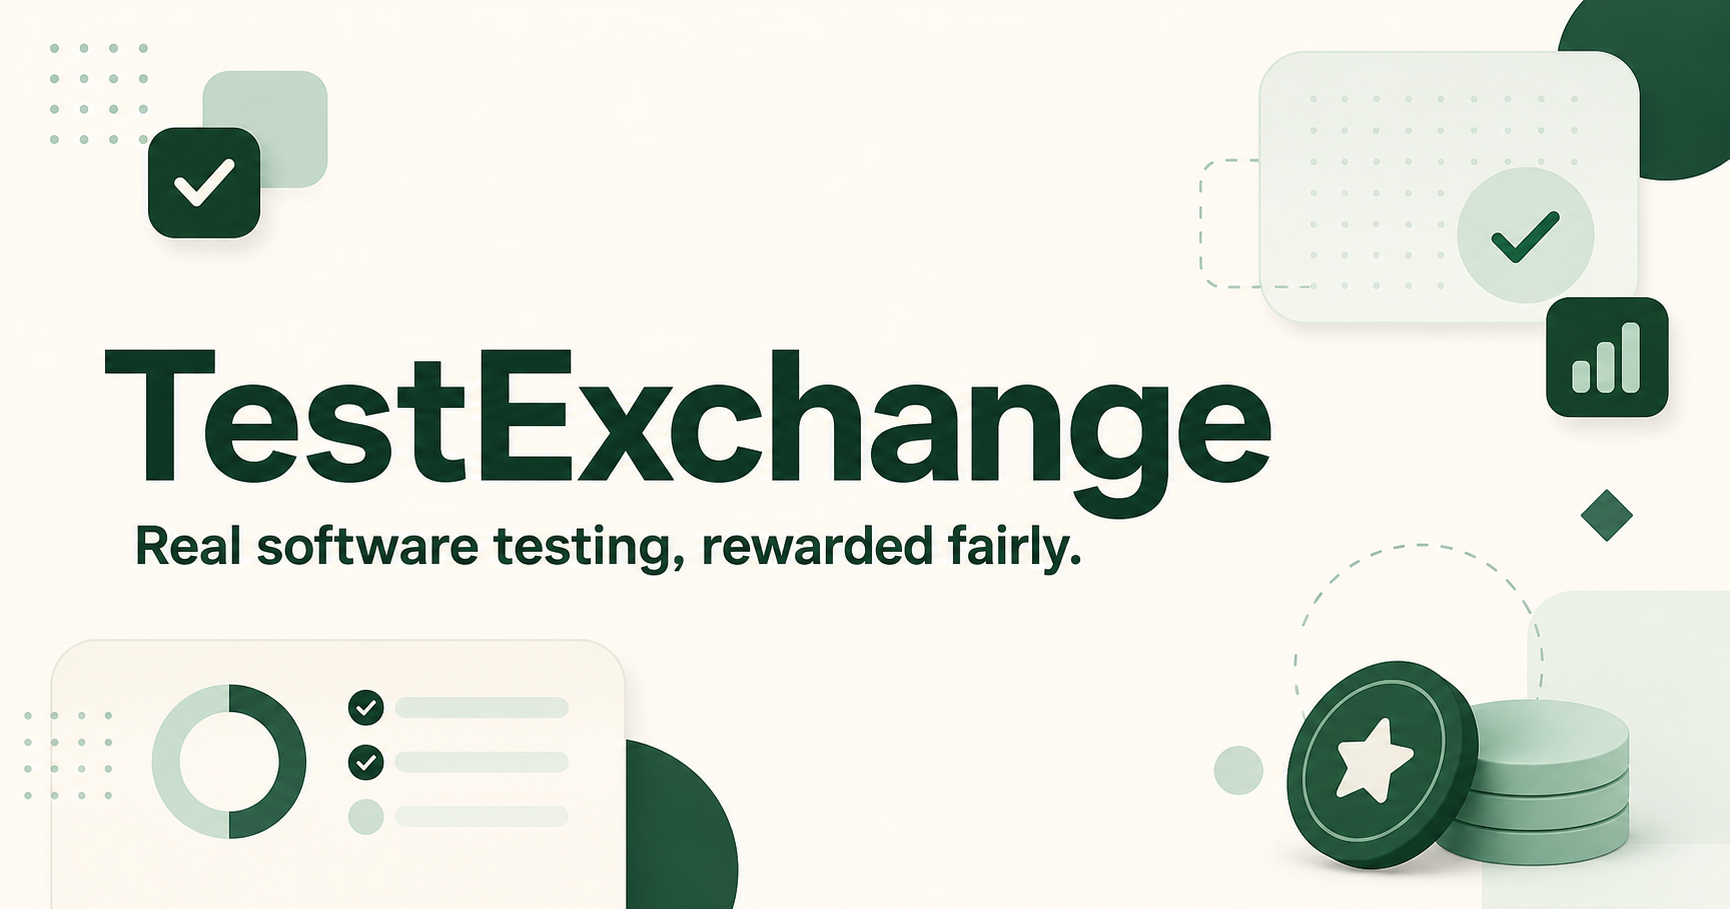
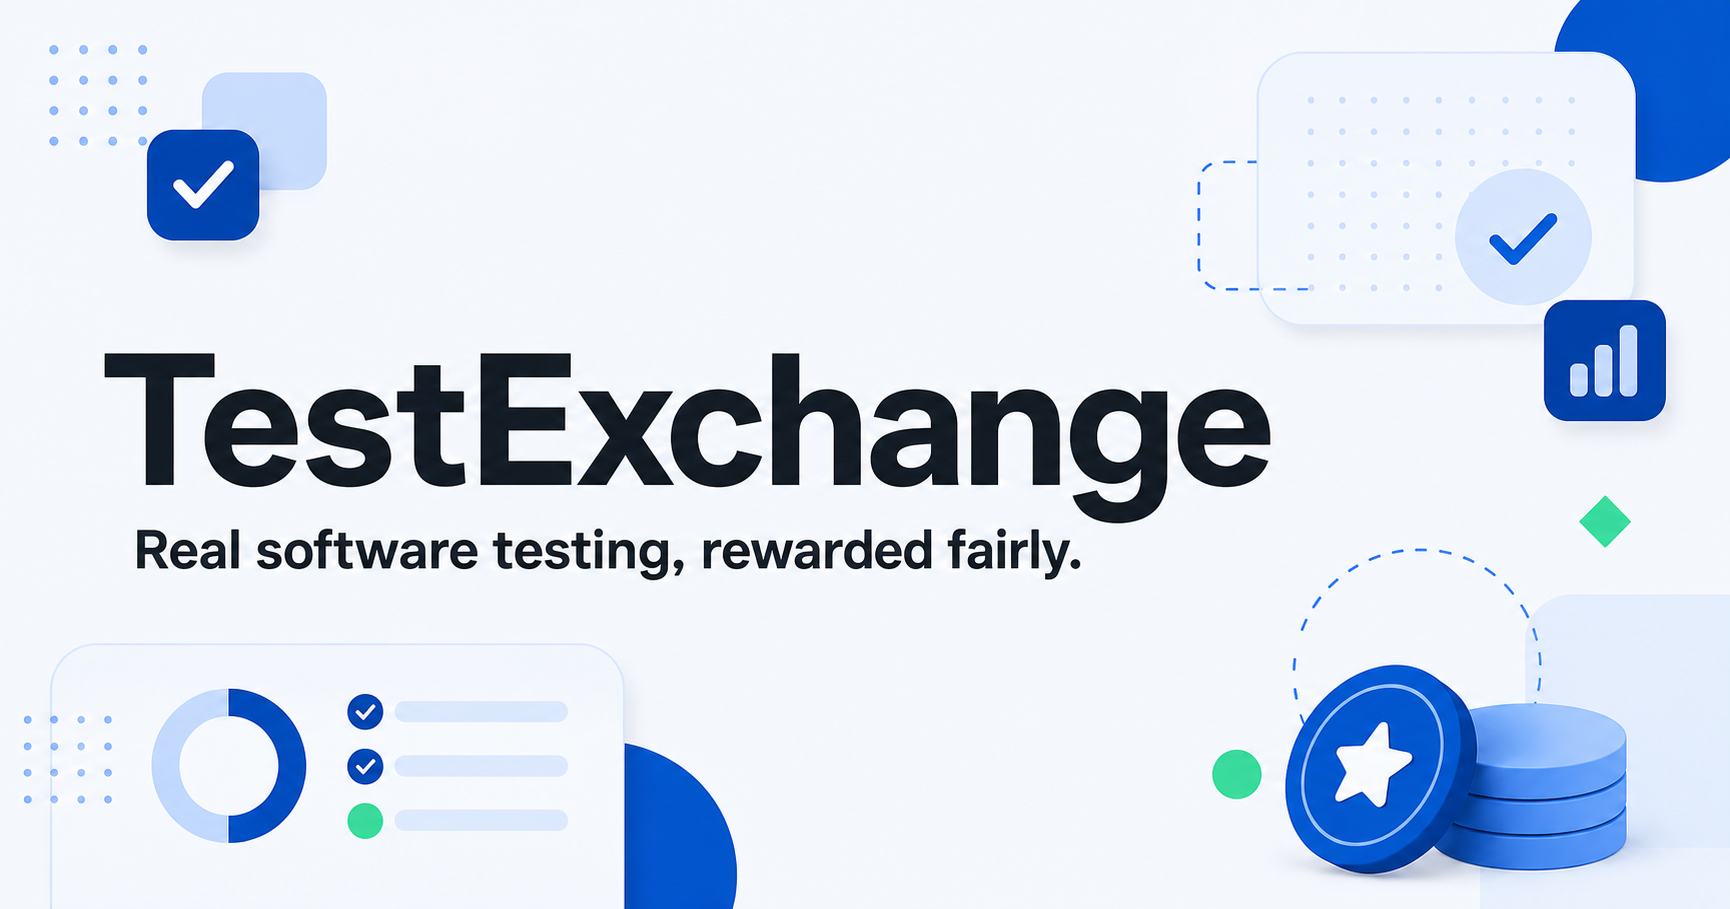
style: apply blue Android-inspired theme

diff --git a/src/styles.css b/src/styles.css
@@ -2,26 +2,32 @@
 
 :root {
   font-family: 'DM Sans', system-ui, -apple-system, BlinkMacSystemFont, 'Segoe UI', sans-serif;
-  color: #20241f;
-  background: #f6f7f5;
+  color: #202124;
+  background: #f7f9fc;
   font-synthesis: none;
   text-rendering: optimizeLegibility;
-  --ink: #20241f;
-  --muted: #71776f;
-  --soft-muted: #939990;
-  --line: #e3e6df;
+  --ink: #202124;
+  --muted: #646b75;
+  --soft-muted: #8b929c;
+  --line: #dfe4ec;
   --paper: #ffffff;
-  --canvas: #f6f7f5;
-  --green: #356d53;
-  --green-soft: #e3f1e8;
-  --green-dark: #234936;
+  --canvas: #f7f9fc;
+  --primary: #0b57d0;
+  --primary-dark: #0842a0;
+  --primary-soft: #e8f0fe;
+  --android-green: #3ddc84;
+  --android-green-dark: #087f45;
+  --android-green-soft: #ddf8e8;
+  --green: var(--primary);
+  --green-soft: var(--primary-soft);
+  --green-dark: var(--primary-dark);
   --purple: #7660a4;
   --purple-soft: #eee9f7;
   --orange: #b86c3f;
   --orange-soft: #f8e9df;
-  --blue: #527a9a;
-  --blue-soft: #e5eff6;
-  --shadow: 0 8px 28px rgba(35, 45, 37, 0.06);
+  --blue: #0b57d0;
+  --blue-soft: #e8f0fe;
+  --shadow: 0 8px 28px rgba(11, 87, 208, 0.07);
 }
 
 * {
@@ -120,7 +126,7 @@ h3,
   flex: 0 0 auto;
   place-items: center;
   border-radius: 9px;
-  background: var(--green-dark);
+  background: linear-gradient(145deg, var(--primary), var(--primary-dark));
   color: white;
   font-family: 'Manrope', sans-serif;
   font-size: 16px;
@@ -133,9 +139,9 @@ h3,
   flex-direction: column;
   margin: 27px 5px 23px;
   padding: 16px;
-  border: 1px solid #dfe6df;
+  border: 1px solid #d5e2f7;
   border-radius: 13px;
-  background: linear-gradient(145deg, #eef6ef, #f8faf7);
+  background: linear-gradient(145deg, #edf4ff, #f9fbff);
 }
 
 .eyebrow,
@@ -204,7 +210,7 @@ h3,
 
 .nav-link.active {
   color: var(--green-dark);
-  background: #e7f0e9;
+  background: var(--primary-soft);
   font-weight: 700;
 }
 
@@ -380,11 +386,11 @@ h3,
   border-color: var(--green-dark);
   color: white;
   background: var(--green-dark);
-  box-shadow: 0 5px 12px rgba(35, 73, 54, 0.12);
+  box-shadow: 0 5px 14px rgba(11, 87, 208, 0.2);
 }
 
 .button-dark:hover {
-  background: #193b2a;
+  background: #073b8f;
 }
 
 .button-light {
@@ -734,10 +740,10 @@ h3,
   font-size: 15px;
 }
 
-.app-icon.mint { color: #38644e; background: #dcefe3; }
+.app-icon.mint { color: var(--android-green-dark); background: var(--android-green-soft); }
 .app-icon.lavender { color: #665188; background: #e9e3f4; }
 .app-icon.peach { color: #945b3e; background: #f8e4d8; }
-.app-icon.sky { color: #4b6e88; background: #dfeef5; }
+.app-icon.sky { color: var(--primary-dark); background: var(--primary-soft); }
 
 .quick-test > div {
   display: flex;
@@ -3692,14 +3698,14 @@ h3,
 }
 
 /* Public community */
-.public-shell { min-height: 100vh; background: #f7f8f5; }
+.public-shell { min-height: 100vh; background: var(--canvas); }
 .public-container { width: min(1180px, calc(100% - 40px)); margin-inline: auto; }
-.public-header { position: sticky; top: 0; z-index: 30; border-bottom: 1px solid #dfe4dc; background: rgba(251, 252, 249, .96); backdrop-filter: blur(14px); }
+.public-header { position: sticky; top: 0; z-index: 30; border-bottom: 1px solid #dce3ed; background: rgba(250, 252, 255, .96); backdrop-filter: blur(14px); }
 .public-header-inner { display: flex; width: min(1240px, calc(100% - 32px)); height: 68px; align-items: center; gap: 28px; margin-inline: auto; }
 .public-brand { flex: 0 0 auto; }
 .public-nav { display: flex; align-items: center; gap: 5px; }
 .public-nav a { padding: 9px 11px; border-radius: 8px; color: #626a61; font-size: 13px; font-weight: 600; }
-.public-nav a:hover, .public-nav a.active { color: var(--green-dark); background: #edf3ed; }
+.public-nav a:hover, .public-nav a.active { color: var(--primary-dark); background: var(--primary-soft); }
 .public-search { display: flex; min-width: 190px; max-width: 335px; height: 39px; flex: 1; align-items: center; gap: 8px; margin-left: auto; padding: 0 12px; border: 1px solid #dce1d9; border-radius: 9px; background: white; }
 .public-search svg { color: #8a9189; }
 .public-search input { width: 100%; border: 0; outline: 0; color: var(--ink); background: transparent; font-size: 12px; }
@@ -3708,24 +3714,24 @@ h3,
 .public-menu-button { display: none; }
 .public-main { min-height: calc(100vh - 230px); }
 
-.community-hero { overflow: hidden; border-bottom: 1px solid #dfe4dc; background: radial-gradient(circle at 78% 15%, rgba(167, 203, 177, .35), transparent 25%), linear-gradient(135deg, #f9faf7 5%, #edf4ed 100%); }
+.community-hero { overflow: hidden; border-bottom: 1px solid #dce3ed; background: radial-gradient(circle at 82% 8%, rgba(61, 220, 132, .2), transparent 26%), radial-gradient(circle at 70% 35%, rgba(11, 87, 208, .15), transparent 34%), linear-gradient(135deg, #fbfcff 5%, #edf3ff 100%); }
 .community-hero-inner { display: grid; grid-template-columns: minmax(0, 1.25fr) minmax(330px, .75fr); align-items: center; gap: 84px; min-height: 455px; padding-block: 70px; }
 .community-kicker { color: var(--green); font-size: 10px; font-weight: 800; letter-spacing: 1.5px; }
-.community-hero-copy h1 { max-width: 720px; margin-top: 16px; color: #17251c; font-size: clamp(42px, 5vw, 67px); line-height: 1.03; letter-spacing: -3.4px; }
+.community-hero-copy h1 { max-width: 720px; margin-top: 16px; color: #17243a; font-size: clamp(42px, 5vw, 67px); line-height: 1.03; letter-spacing: -3.4px; }
 .community-hero-copy > p { max-width: 650px; margin-top: 22px; color: #5e685f; font-size: 17px; line-height: 1.7; }
 .community-hero-actions { display: flex; align-items: center; gap: 22px; margin-top: 30px; }
 .community-text-link { color: var(--green-dark); font-size: 13px; font-weight: 700; border-bottom: 1px solid #aebdaf; }
 
-.community-principle-card { padding: 28px; border: 1px solid #d4dfd5; border-radius: 17px; background: rgba(255, 255, 255, .86); box-shadow: 0 24px 65px rgba(37, 66, 47, .1); }
-.community-card-icon { display: inline-grid; width: 40px; height: 40px; margin-bottom: 19px; place-items: center; border-radius: 11px; color: var(--green); background: var(--green-soft); }
+.community-principle-card { padding: 28px; border: 1px solid #d4dfef; border-radius: 17px; background: rgba(255, 255, 255, .9); box-shadow: 0 24px 65px rgba(11, 63, 145, .12); }
+.community-card-icon { display: inline-grid; width: 40px; height: 40px; margin-bottom: 19px; place-items: center; border-radius: 11px; color: var(--android-green-dark); background: var(--android-green-soft); }
 .community-principle-card h2 { margin-top: 8px; font-size: 22px; letter-spacing: -.5px; }
 .community-principle-card ol { display: flex; flex-direction: column; gap: 16px; margin: 23px 0 0; padding: 0; list-style: none; }
 .community-principle-card li { display: grid; grid-template-columns: 30px 1fr; align-items: start; gap: 11px; }
-.community-principle-card li > span { display: inline-grid; width: 27px; height: 27px; place-items: center; border: 1px solid #cbd8cd; border-radius: 50%; color: var(--green-dark); font-size: 10px; font-weight: 800; }
+.community-principle-card li > span { display: inline-grid; width: 27px; height: 27px; place-items: center; border: 1px solid #bad0f2; border-radius: 50%; color: var(--primary-dark); font-size: 10px; font-weight: 800; }
 .community-principle-card li p { color: #6c746c; font-size: 11px; line-height: 1.5; }
 .community-principle-card li strong { display: block; margin-bottom: 2px; color: var(--ink); font-size: 12px; }
 
-.community-stats { border-bottom: 1px solid #e1e5df; background: white; }
+.community-stats { border-bottom: 1px solid #dfe4ec; background: white; }
 .community-stats .public-container { display: grid; grid-template-columns: repeat(4, 1fr); }
 .community-stats .public-container > div { display: flex; min-height: 90px; align-items: center; justify-content: center; flex-direction: column; border-left: 1px solid #e7eae5; }
 .community-stats .public-container > div:first-child { border-left: 0; }
@@ -3744,7 +3750,7 @@ h3,
 .community-vitals { display: flex; align-items: center; flex-direction: column; padding-top: 4px; color: #768078; }
 .community-vitals strong { color: var(--green-dark); font-family: 'Manrope', sans-serif; font-size: 21px; line-height: 1; }
 .community-vitals span { margin-top: 3px; font-size: 8px; font-weight: 700; text-transform: uppercase; }
-.community-vitals small { margin-top: 10px; padding: 4px 7px; border-radius: 99px; color: var(--green); background: var(--green-soft); font-size: 8px; white-space: nowrap; }
+.community-vitals small { margin-top: 10px; padding: 4px 7px; border-radius: 99px; color: var(--android-green-dark); background: var(--android-green-soft); font-size: 8px; white-space: nowrap; }
 .community-test-heading { display: grid; grid-template-columns: auto minmax(0, 1fr) auto; align-items: start; gap: 10px; }
 .community-test-heading .app-icon { width: 37px; height: 37px; font-size: 9px; }
 .community-test-heading h2 { padding-top: 1px; font-size: 14px; line-height: 1.35; letter-spacing: -.15px; }
@@ -3755,8 +3761,8 @@ h3,
 .community-status.completed { color: #70776f; background: #f2f3f1; }
 .community-summary { margin-top: 13px; color: #5d655d; font-size: 11px; line-height: 1.55; }
 .community-tags { display: flex; flex-wrap: wrap; gap: 6px; margin-top: 12px; }
-.community-tags a { padding: 4px 7px; border-radius: 5px; color: #526b58; background: #edf3ed; font-size: 8px; font-weight: 700; }
-.community-tags a:hover { background: #deebdf; }
+.community-tags a { padding: 4px 7px; border-radius: 5px; color: var(--primary-dark); background: var(--primary-soft); font-size: 8px; font-weight: 700; }
+.community-tags a:hover { background: #d9e6fd; }
 .community-meta { display: flex; flex-wrap: wrap; align-items: center; gap: 13px; margin-top: 13px; color: #858c84; font-size: 8.5px; }
 .community-meta span { display: inline-flex; align-items: center; gap: 5px; }
 .community-meta .community-posted { margin-left: auto; }
@@ -3767,7 +3773,7 @@ h3,
 .community-side-card { padding: 20px; border: 1px solid #dfe3dc; border-radius: 12px; background: white; }
 .community-side-card h3 { font-size: 13px; }
 .community-side-card p { margin-top: 7px; color: #727a72; font-size: 10px; line-height: 1.55; }
-.privacy-card { display: flex; gap: 12px; color: var(--green); border-color: #cfdfd2; background: #f1f7f2; }
+.privacy-card { display: flex; gap: 12px; color: var(--primary); border-color: #ccdaf1; background: #f0f5ff; }
 .privacy-card svg { flex: 0 0 auto; }
 .privacy-card p { color: #617064; }
 .side-card-heading { display: flex; align-items: center; justify-content: space-between; }
@@ -3783,7 +3789,7 @@ h3,
 .community-note-card p { margin: 0; }
 .community-note-card strong { color: #4f5949; }
 
-.public-footer { border-top: 1px solid #dde2da; background: #eef2ec; }
+.public-footer { border-top: 1px solid #dce3ed; background: #edf3fc; }
 .public-footer-inner { display: grid; grid-template-columns: 1fr auto; align-items: center; gap: 28px; min-height: 160px; padding-block: 28px; }
 .public-footer .brand { font-size: 14px; }
 .public-footer .brand-mark { width: 27px; height: 27px; font-size: 12px; }
@@ -3833,9 +3839,9 @@ h3,
   .public-footer small { grid-column: 1; }
 }
 
-.directory-hero, .simple-public-hero { border-bottom: 1px solid #dfe4dc; background: linear-gradient(135deg, #f9faf7, #edf3ed); }
+.directory-hero, .simple-public-hero { border-bottom: 1px solid #dce3ed; background: radial-gradient(circle at 85% 10%, rgba(61, 220, 132, .14), transparent 25%), linear-gradient(135deg, #fbfcff, #edf3ff); }
 .directory-hero .public-container, .simple-public-hero .public-container { padding-block: 52px; }
-.directory-hero h1, .simple-public-hero h1 { max-width: 760px; margin-top: 11px; color: #19271e; font-size: 36px; letter-spacing: -1.3px; }
+.directory-hero h1, .simple-public-hero h1 { max-width: 760px; margin-top: 11px; color: #17243a; font-size: 36px; letter-spacing: -1.3px; }
 .directory-hero p, .simple-public-hero p { max-width: 720px; margin-top: 12px; color: #667067; font-size: 13px; line-height: 1.65; }
 .directory-search { display: flex; max-width: 690px; height: 48px; align-items: center; gap: 10px; margin-top: 25px; padding: 0 14px; border: 1px solid #ced8cf; border-radius: 10px; background: white; box-shadow: 0 9px 24px rgba(38, 61, 45, .06); }
 .directory-search > svg { color: var(--green); }
@@ -3861,7 +3867,7 @@ h3,
 
 .test-detail-breadcrumb { display: flex; align-items: center; gap: 8px; padding-block: 22px; color: #929990; font-size: 9px; }
 .test-detail-breadcrumb a { display: inline-flex; align-items: center; gap: 5px; color: var(--green); font-weight: 700; }
-.test-detail-header { border-block: 1px solid #dfe4dc; background: linear-gradient(135deg, #f8faf7, #eef4ee); }
+.test-detail-header { border-block: 1px solid #dce3ed; background: radial-gradient(circle at 85% 0%, rgba(61, 220, 132, .13), transparent 24%), linear-gradient(135deg, #fafcff, #edf3ff); }
 .test-detail-header-inner { display: grid; grid-template-columns: minmax(0, 1fr) 235px; align-items: end; gap: 70px; padding-block: 46px; }
 .test-detail-project { display: flex; align-items: center; gap: 11px; margin-bottom: 19px; }
 .test-detail-project .app-icon { width: 45px; height: 45px; font-size: 11px; }
@@ -3882,7 +3888,7 @@ h3,
 .detail-section h2 { margin-top: 8px; font-size: 21px; letter-spacing: -.45px; }
 .detail-section > p { margin-top: 12px; color: #626b62; font-size: 12px; line-height: 1.7; }
 .detail-section h3 { margin-top: 26px; font-size: 12px; }
-.public-scope-note { display: flex; align-items: flex-start; gap: 11px; margin-top: 22px; padding: 15px; border: 1px solid #d5e2d7; border-radius: 9px; color: var(--green); background: #f2f7f3; }
+.public-scope-note { display: flex; align-items: flex-start; gap: 11px; margin-top: 22px; padding: 15px; border: 1px solid #ccdaf1; border-radius: 9px; color: var(--primary); background: #f0f5ff; }
 .public-scope-note strong { font-size: 10px; }
 .public-scope-note p { margin-top: 3px; color: #6d776e; font-size: 9px; line-height: 1.5; }
 .detail-facts { display: grid; grid-template-columns: repeat(3, 1fr); gap: 12px; margin-top: 20px; }
@@ -3895,7 +3901,7 @@ h3,
 .requirement-list { display: flex; flex-direction: column; gap: 9px; margin: 13px 0 0; padding: 0; list-style: none; }
 .requirement-list li { display: flex; align-items: center; gap: 8px; color: #5e675f; font-size: 10px; }
 .requirement-list svg { color: var(--green); }
-.detail-privacy-section { display: flex; align-items: flex-start; gap: 15px; background: #f5f8f4; }
+.detail-privacy-section { display: flex; align-items: flex-start; gap: 15px; background: #f4f7fc; }
 .detail-privacy-section > svg { color: var(--green); }
 .detail-privacy-section h2 { margin-top: 5px; }
 .detail-privacy-section p { margin-top: 8px; color: #657066; font-size: 10px; line-height: 1.6; }
@@ -3903,7 +3909,7 @@ h3,
 .join-test-card, .developer-summary-card { padding: 21px; border: 1px solid #dfe3dc; border-radius: 12px; background: white; }
 .join-test-card h2 { margin-top: 16px; font-size: 17px; }
 .join-test-card > p { margin-top: 8px; color: #747c74; font-size: 9.5px; line-height: 1.55; }
-.join-reward-line { display: flex; align-items: center; gap: 9px; margin-block: 18px; padding: 12px; border-radius: 8px; color: var(--green); background: var(--green-soft); }
+.join-reward-line { display: flex; align-items: center; gap: 9px; margin-block: 18px; padding: 12px; border-radius: 8px; color: var(--android-green-dark); background: var(--android-green-soft); }
 .join-reward-line span { display: flex; flex-direction: column; gap: 2px; }
 .join-reward-line strong { font-size: 10px; }
 .join-reward-line small { color: #6e7b70; font-size: 8px; }
@@ -3921,7 +3927,7 @@ h3,
 .tags-directory { display: grid; grid-template-columns: repeat(3, 1fr); gap: 14px; padding-block: 42px 75px; }
 .tag-directory-card { display: grid; grid-template-columns: auto minmax(0, 1fr) auto; align-items: center; gap: 13px; min-height: 120px; padding: 18px; border: 1px solid #dfe3dc; border-radius: 11px; background: white; }
 .tag-directory-card:hover { border-color: #b8c9ba; box-shadow: var(--shadow); }
-.tag-directory-icon { display: inline-grid; width: 37px; height: 37px; place-items: center; border-radius: 9px; color: var(--green); background: var(--green-soft); }
+.tag-directory-icon { display: inline-grid; width: 37px; height: 37px; place-items: center; border-radius: 9px; color: var(--primary); background: var(--primary-soft); }
 .tag-directory-card h2 { font-size: 13px; }
 .tag-directory-card p { overflow: hidden; margin-top: 5px; color: #858c84; font-size: 8px; text-overflow: ellipsis; white-space: nowrap; }
 .tag-directory-card small { display: block; margin-top: 9px; color: var(--green); font-size: 8px; font-weight: 700; }
@@ -3930,12 +3936,12 @@ h3,
 .how-steps { display: grid; grid-template-columns: repeat(4, 1fr); overflow: hidden; border: 1px solid #dfe3dc; border-radius: 13px; background: white; }
 .how-steps article { min-height: 255px; padding: 25px; border-left: 1px solid #e5e8e3; }
 .how-steps article:first-child { border-left: 0; }
-.how-steps article > span { display: inline-grid; width: 41px; height: 41px; place-items: center; border-radius: 10px; color: var(--green); background: var(--green-soft); }
+.how-steps article > span { display: inline-grid; width: 41px; height: 41px; place-items: center; border-radius: 10px; color: var(--primary); background: var(--primary-soft); }
 .how-steps article > small { display: block; margin-top: 24px; color: #a1a7a0; font-size: 8px; font-weight: 800; }
 .how-steps h2 { margin-top: 7px; font-size: 15px; }
 .how-steps p { margin-top: 9px; color: #707970; font-size: 10px; line-height: 1.6; }
 .how-principles { display: grid; grid-template-columns: 1fr 1fr; gap: 15px; margin-top: 20px; }
-.how-principles > div { padding: 25px; border: 1px solid #d7e1d8; border-radius: 12px; color: var(--green); background: #f2f7f3; }
+.how-principles > div { padding: 25px; border: 1px solid #ccdaf1; border-radius: 12px; color: var(--primary); background: #f0f5ff; }
 .how-principles h2 { margin-top: 16px; color: var(--ink); font-size: 17px; }
 .how-principles p { margin-top: 8px; color: #69746a; font-size: 10px; line-height: 1.6; }
 
@@ -3964,4 +3970,53 @@ h3,
   .how-steps { grid-template-columns: 1fr; }
   .how-steps article, .how-steps article:nth-child(4) { min-height: auto; border-top: 1px solid #e5e8e3; border-left: 0; }
   .how-steps article:first-child { border-top: 0; }
+}
+
+/* Android green is the supporting success and credit color; blue remains primary. */
+.stat-icon.green,
+.metric-icon.green,
+.ledger-icon.earned,
+.community-cta-card .community-card-icon {
+  color: var(--android-green-dark);
+  background: var(--android-green-soft);
+}
+
+.badge-active,
+.status-pill.approved,
+.status-pill.active,
+.community-status.open,
+.autosave-status.saved,
+.save-confirmation,
+.summary-ready,
+.campaign-created-banner,
+.workspace-notice.success,
+.review-outcome.approved {
+  color: var(--android-green-dark);
+  background: var(--android-green-soft);
+}
+
+.badge-active > span {
+  background: var(--android-green-dark);
+}
+
+.credit-reward,
+.join-reward-line,
+.quality-list > div.passed > svg,
+.decision-complete {
+  color: var(--android-green-dark);
+}
+
+.summary-ready,
+.campaign-created-banner,
+.workspace-notice.success,
+.review-outcome.approved {
+  border-color: #b9e9cc;
+}
+
+input:focus,
+select:focus,
+textarea:focus,
+button:focus-visible,
+a:focus-visible {
+  outline-color: rgba(11, 87, 208, .5);
 }

diff --git a/index.html b/index.html
@@ -3,7 +3,7 @@
   <head>
     <meta charset="UTF-8" />
     <meta name="viewport" content="width=device-width, initial-scale=1.0" />
-    <meta name="theme-color" content="#234936" />
+    <meta name="theme-color" content="#0b57d0" />
     <meta
       name="description"
       content="Test real software, earn credits for approved work, and recruit trusted testers for your own project."
